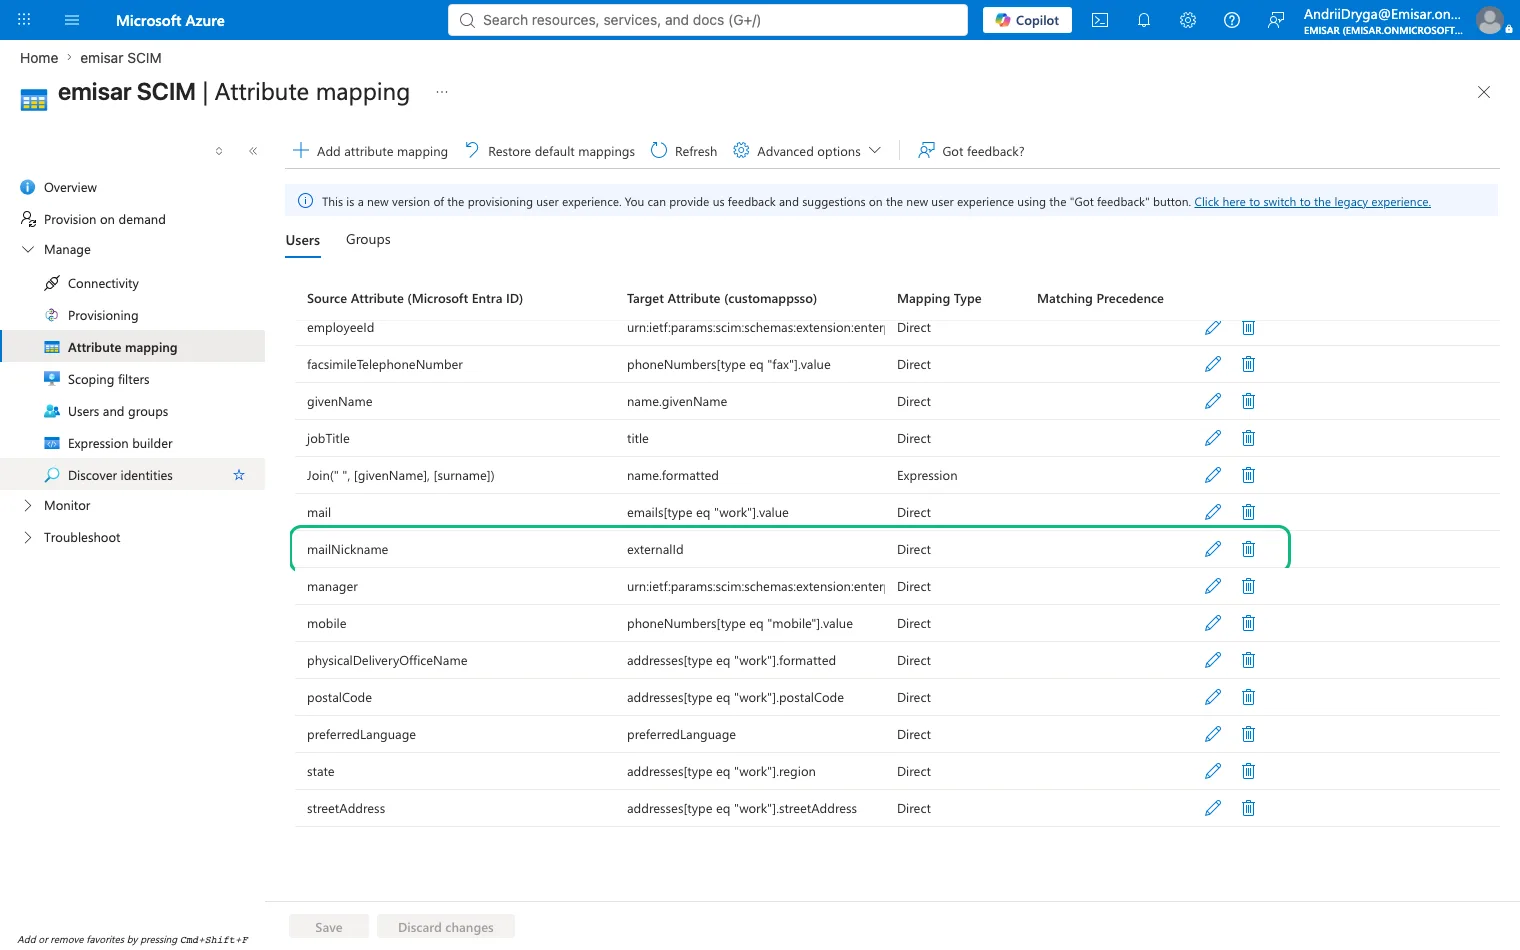
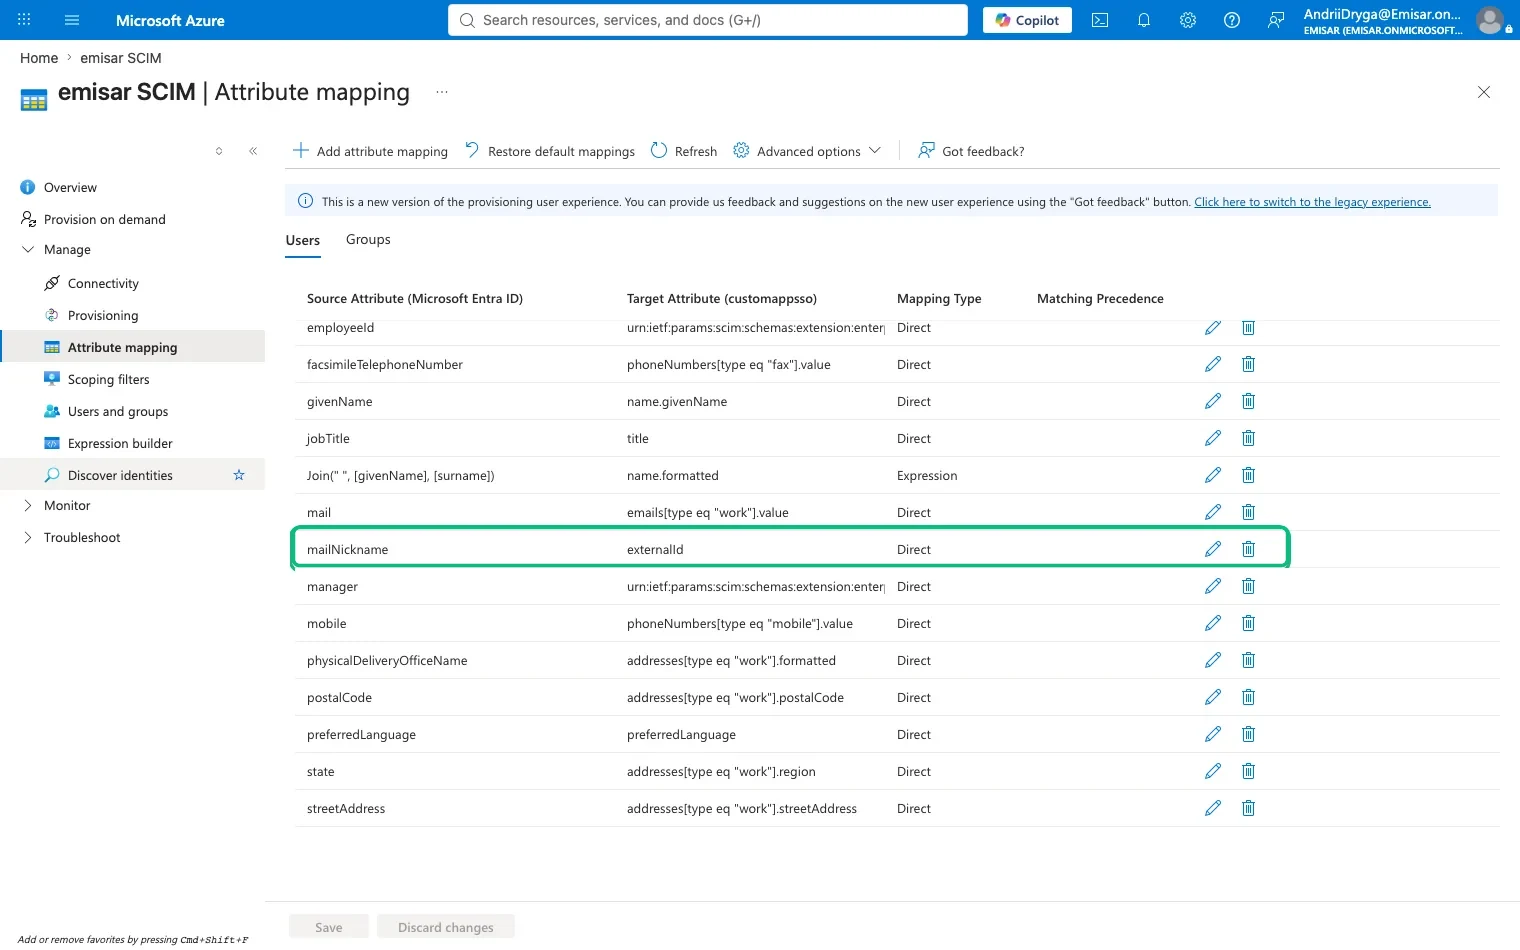
Ring a highlighted table row on its cells, not on the row
The Entra attribute-mapping screenshot marked the mailNickname row with
three sides missing — a pixel scan found one green run along the top, two
corner arcs, and nothing else.

An outline on a <tr> paints under its cells' backgrounds. Entra's cells
are opaque so only the sliver outside the row survived; Keycloak's are
transparent, which is why the same code looked correct there and this
shipped. An outward box-shadow fixes the layering but falls outside a
crop the row already spans, so the Keycloak scopes ring then lost its
sides. Inset shadows on each cell draw above the backgrounds and stay in
frame.

Both toolchains now do this — the Go docs capture and the five Entra
Playwright scripts. The shipped Entra image has its ring completed at the
geometry the browser used; the captured screen is unchanged, only the
annotation layer that failed to paint.

Coop-Task: 2026-07-29-2026-07-29-docs-feedback-batch-emisar-step-shots

Changed region(s): [[0.1855, 0.5495, 0.8349, 0.6105]]

diff --git a/tools/internal/browser/docs.go b/tools/internal/browser/docs.go
@@ -551,7 +551,20 @@ func highlightControls(session *Session, labels []string) error {
   if (!node) return false;
   if (%t) {
     const tr = node.closest('tr');
-    return tr ? paint(tr) : false;
+    if (!tr) return false;
+    // Ring the CELLS, not the row. A row's outline paints under its cells'
+    // backgrounds, so an opaque table keeps only the part outside the row — an
+    // Entra shot shipped with just its top edge. An outward shadow on the row
+    // instead falls outside a crop the row already spans. An inset shadow per
+    // cell draws above each background and stays inside the picture.
+    const cells = [...tr.children];
+    cells.forEach((cell, i) => {
+      const ring = ['inset 0 3px 0 #10b981', 'inset 0 -3px 0 #10b981'];
+      if (i === 0) ring.push('inset 3px 0 0 #10b981');
+      if (i === cells.length - 1) ring.push('inset -3px 0 0 #10b981');
+      cell.style.boxShadow = ring.join(', ');
+    });
+    return cells.length > 0;
   }
   // A <label for=...> names its control outright; take that rather than guessing
   // by climbing. The climb below can drift onto a NEIGHBOUR's input and outline
